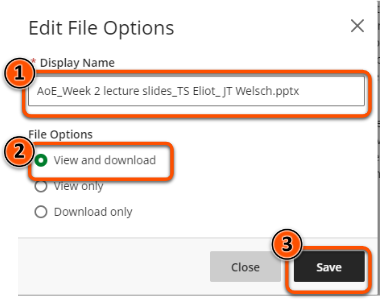
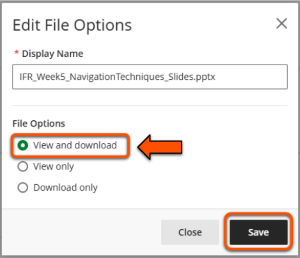
Ultra/Files - update images, direct to Documents for uploading in docs

Changed region(s): [[0.0, 0.0, 1.0, 1.0]]

diff --git a/docs/ultra/files.md b/docs/ultra/files.md
@@ -4,7 +4,7 @@ tags:
     - Ultra
 ---
 
-# Uploading files
+# Upload files
 
 !!! Summary
 
@@ -17,54 +17,27 @@ tags:
     - 3.1 Essential: Organise module materials in sections that support student progress through the module.
     - 3.4 Essential: Site and materials content is accessible.
     - 3.6 Essential: Links and materials titles describe the destination or content.
-    - 5.1 Recommended: Ensure that students can see and access module materials and content.
 
-!!! Warning
-    Files uploaded to Learn VLE sites (eg. PDF or Word documents) are technically accessible to all site users, even if it is hidden from students in the Course Content area.
-    
-    When **uploading assessment-related files** (eg. assessment briefs or test materials), view and apply [our guidance on Strict File Access Control for Sensitive Files](https://docs.google.com/document/d/1j6g1k2W0Ont1kA8DfSq7VuLYwgIhbDI7vzwd0-tQAaM/edit).
+## Standalone content item
 
-## Upload files into a Document
+![Lecture files uploaded as a standalone item that can be previewed within the VLE site](images/files-example.png)
 
-This method is recommended for presenting module materials (eg. lecture slides) and other files in context.
+Files can be uploaded directly into the Course Content area as a standalone item. This method is especially useful for reference materials that don't require context.
 
-![Week 2 lecture document with introductory text and uploaded lecture slides file](images/files-within-document.png)
-
-Use either method depending on yorur workflow preference:
-
-### Method 1: use Upload from computer option
-
-1. If your Document already has content, first click the **plus icon** in the location to add the file.
-2. Select **Upload from Computer**.</br>
-![Upload from computer is the third item in Add content options](images/files-within-document-upload-from-computer.png)
-3. Select the item to upload and click **Open**.</br>
-![Decorative](images/files-select-file.png)
-4. Input a descriptive file display name (eg. "Week 4 Seminar Materials"), set the file options as **View and Download**, then click **Save**.</br>
-![Decorative](images/files-edit-file-options.png)
-5. Click the **chevron icon** to the right of the file name to preview the file in the Document (if "view" was selected in file options).</br>
-![Decorative](images/files-preview.png)
-
-### Method 2: Attach using the text editor
-
-1. In the text editor, put your cursor in the location to add the file and click the **paperclip/Attachment icon**.</br>
-![Decorative](images/files-text-editor-attachment.png)
-2. Select the item to upload and click **Open**.</br>
-![Decorative](images/files-select-file.png)
-3. Input a descriptive file display name (eg. "Week 4 Seminar Materials"), set the file options as **View and Download**, then click **Save**.</br>
-![Decorative](images/files-edit-file-options.png)
-4. Click **Save** under the text editor.
-5. Click the **chevron icon** to the right of the file name to view the file in the Document (if "view" was selected in file options).</br>
-![Decorative](images/files-preview.png)
-
-## Upload Files as a standalone item
-
-You can also upload files directly into the Course Content area. This method is recommended for standalone or reference materials that don't require context, as it's not possible to add explanatory text with the file.
+To upload a file as a standalone content item:
 
 1. Click the **plus icon** in the location to add the file and select **Upload**.
-</br>![Decorative](images/files-course-content-upload.png)
-2. Select the item to upload and click **Open**.</br>
-![Decorative](images/files-select-file.png)
-3. Input a descriptive file display name (eg. "Week 4 Seminar Materials"), set the file options as **View and Download**, then click **Save**.</br>
-![Decorative](images/files-edit-file-options.png)
-4. Make the file visible to students.
-5. Click the file to view in a separate pane in the site (if "view" was selected in file options).
+</br>![Decorative](images/files-upload.png)
+2. Select the item to upload and click **Open**.
+3. In the *File Options panel*, enter a **Display name** (title) that meaningfully describes the contents without having to open the file. Ensure *File Options* is set to **View and download**, then click **Save**.
+</br>![Decorative](images/files-edit-file-options.png)
+4. To add a **Description** to display under the file title, click the **three dots icon** and select **Edit**. Enter your description and click **Save**.
+5. Make the file [visible to students](../ultra/content-visibility.md).
+</br>![Decorative](images/files-edit-visibility.png)
+6. Users can now click the item to preview the file within the VLE site.
+
+## Upload within a Document
+
+![Document with a File upload block with lecture slides below a content block with explanatory text](images/documents-block-file-upload.png)
+
+You can also upload a file within a Document to include contextual text and/or integrate it with other materials. Use the [Document File Upload Block](../ultra/documents.md#block-file-upload) to do this. 

diff --git a/docs/ultra/documents.md b/docs/ultra/documents.md
@@ -256,9 +256,9 @@ To upload a file:
 <div markdown class="grid">
 <div markdown>
 1. Select the relevant file from your device.
-2. In the *File Options panel*, enter a  **Display name** that meaningfully describes the contents without having to open the file.
+2. In the *File Options panel*, enter a  **Display name** (title) that meaningfully describes the contents without having to open the file.
 3. Set *File Options* to **View and download**.
-4. Click Save in the File Options panel.
+4. Click **Save** in the File Options panel.
 5. When you have finished editing the Document, click **Save** in the top right.
 </div>
 ![Edit File Options panel. Display name: IFR_Week5_NavigationTechniques_Slides.pptx, File options: 'View and download'](images/documents-block-file-upload-settings.png)
